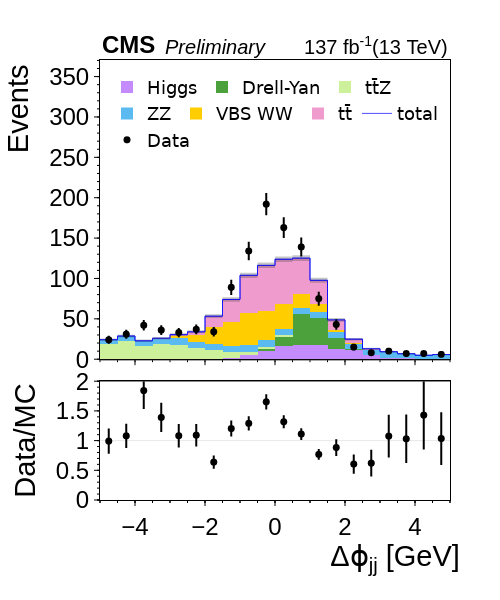
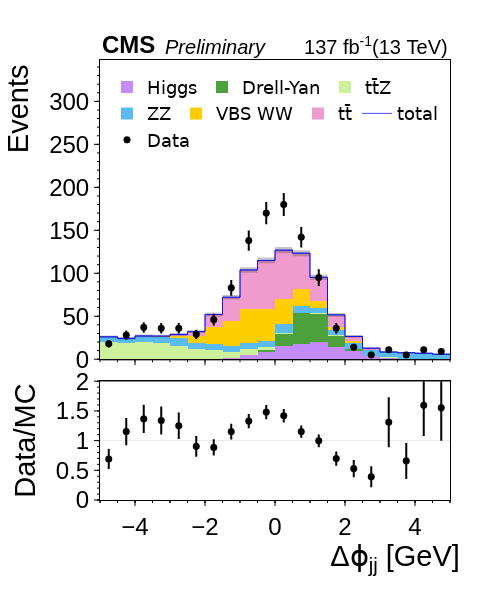
update

diff --git a/examples/example1/plot.html b/examples/example1/plot.html
@@ -9,7 +9,7 @@ window.PlotlyConfig = {MathJaxConfig: 'local'};
 <script src="https://cdn.plot.ly/plotly-2.3.0.min.js"></script>
 
     <div
-        id=ffba8164-e696-4b07-a4c6-10cbb7d7e266
+        id=f52e4669-def1-440f-9179-f8630d708ea9
         class="plotly-graph-div"
         style="height:600; width:500;">
     </div>
@@ -17,11 +17,11 @@ window.PlotlyConfig = {MathJaxConfig: 'local'};
         
         window.PLOTLYENV = window.PLOTLYENV || {}
         
-        if (document.getElementById('ffba8164-e696-4b07-a4c6-10cbb7d7e266')) {
+        if (document.getElementById('f52e4669-def1-440f-9179-f8630d708ea9')) {
     Plotly.newPlot(
-        'ffba8164-e696-4b07-a4c6-10cbb7d7e266',
-        [{"showlegend":false,"xaxis":"x","type":"scatter","name":"Data/MC","yaxis":"y"},{"showlegend":false,"xaxis":"x2","type":"scatter","name":"ratiopanel_minorticks","yaxis":"y2"},{"showlegend":false,"xaxis":"x3","type":"scatter","name":"ratiopanel_unityline","yaxis":"y3"},{"showlegend":false,"xaxis":"x4","type":"scatter","name":"mainpanel_majorticks","yaxis":"y4"},{"showlegend":false,"xaxis":"x5","type":"scatter","name":"mainpanel_minorticks","yaxis":"y5"},{"showlegend":false,"mode":"markers","xaxis":"x","name":"Data/MC","opacity":1,"error_y":{"array":[0.21223812008753618,0.2042074404155222,0.3093173328826495,0.2472365144433986,0.19827390543984852,0.188971033030122,0.11283404940021523,0.13493502349286796,0.11837993138306015,0.12872139995658505,0.10970638455027125,0.09925776040738332,0.09198068849285605,0.14046842753555544,0.16082219396140016,0.2259543525914188,0.357844370589103,0.4086168604604494,0.5772300254584061,0.44363277303632886],"width":0},"yaxis":"y","marker":{"color":"black","size":7},"y":[0.9917355371900826,1.0801393728222994,1.8421052631578947,1.3899613899613898,1.0819672131147542,1.0914454277286134,0.6378986866791745,1.2027027027027026,1.2897016361886429,1.6523235800344231,1.3166397415185782,1.110223642172524,0.7676560900716478,0.8829568788501028,0.6048387096774193,0.6201550387596898,1.0752688172043012,1.0294117647058822,1.4285714285714284,1.0344827586206895],"type":"scatter","x":[-4.75,-4.25,-3.75,-3.25,-2.75,-2.25,-1.75,-1.25,-0.75,-0.25,0.25,0.75,1.25,1.75,2.25,2.75,3.25,3.75,4.25,4.75]},{"x":[-4.75,-4.25,-3.75,-3.25,-2.75,-2.25,-1.75,-1.25,-0.75,-0.25,0.25,0.75,1.25,1.75,2.25,2.75,3.25,3.75,4.25,4.75],"xaxis":"x4","y":[0.0,0.0,0.0,0.0,0.0,0.30000000000000004,0.7000000000000001,1.5,5.0,9.9,16.0,17.0,17.900000000000002,13.200000000000001,11.0,5.0,1.6,0.9,0.0,0.0,0.0],"type":"bar","name":"Higgs","opacity":1.0,"yaxis":"y4","legendgroup":1,"marker":{"color":"rgba(196 , 139 , 253 , 1)"}},{"x":[-4.75,-4.25,-3.75,-3.25,-2.75,-2.25,-1.75,-1.25,-0.75,-0.25,0.25,0.75,1.25,1.75,2.25,2.75,3.25,3.75,4.25,4.75],"xaxis":"x4","y":[0.0,0.0,0.0,0.0,0.0,0.0,0.0,0.0,0.1,2.2,12.0,38.5,32.6,12.8,1.6,0.2,0.0,0.0,0.0,0.0,0.0],"type":"bar","name":"Drell-Yan","opacity":1.0,"yaxis":"y4","legendgroup":2,"marker":{"color":"rgba(77 , 161 , 60 , 1)"}},{"x":[-4.75,-4.25,-3.75,-3.25,-2.75,-2.25,-1.75,-1.25,-0.75,-0.25,0.25,0.75,1.25,1.75,2.25,2.75,3.25,3.75,4.25,4.75],"xaxis":"x4","y":[19.200000000000003,22.900000000000002,16.5,18.400000000000002,17.8,13.200000000000001,10.5,7.300000000000001,4.4,3.2,2.3000000000000003,0.9,0.8,0.4,0.30000000000000004,0.0,0.1,0.0,0.0,0.0,0.0],"type":"bar","name":"tt̄Z","opacity":1.0,"yaxis":"y4","legendgroup":3,"marker":{"color":"rgba(205 , 240 , 155 , 1)"}},{"x":[-4.75,-4.25,-3.75,-3.25,-2.75,-2.25,-1.75,-1.25,-0.75,-0.25,0.25,0.75,1.25,1.75,2.25,2.75,3.25,3.75,4.25,4.75],"xaxis":"x4","y":[5.0,5.7,6.2,6.6000000000000005,8.0,7.800000000000001,7.300000000000001,7.300000000000001,7.800000000000001,8.200000000000001,7.4,7.1000000000000005,7.2,7.1000000000000005,6.5,6.300000000000001,7.2,5.7,4.9,5.800000000000001,5.800000000000001],"type":"bar","name":"ZZ","opacity":1.0,"yaxis":"y4","legendgroup":4,"marker":{"color":"rgba(91 , 187 , 241 , 1)"}},{"x":[-4.75,-4.25,-3.75,-3.25,-2.75,-2.25,-1.75,-1.25,-0.75,-0.25,0.25,0.75,1.25,1.75,2.25,2.75,3.25,3.75,4.25,4.75],"xaxis":"x4","y":[0.0,0.1,0.1,0.7000000000000001,3.2,8.700000000000001,21.0,30.200000000000003,39.400000000000006,35.6,30.400000000000002,17.1,9.4,2.9000000000000004,0.8,0.30000000000000004,0.1,0.0,0.0,0.0,0.0],"type":"bar","name":"VBS WW","opacity":1.0,"yaxis":"y4","legendgroup":5,"marker":{"color":"rgba(255, 205, 0, 1)"}},{"x":[-4.75,-4.25,-3.75,-3.25,-2.75,-2.25,-1.75,-1.25,-0.75,-0.25,0.25,0.75,1.25,1.75,2.25,2.75,3.25,3.75,4.25,4.75],"xaxis":"x4","y":[0.0,0.0,0.0,0.2,1.5,3.9000000000000004,13.8,27.700000000000003,47.2,57.1,55.7,44.6,29.8,12.3,4.6000000000000005,1.1,0.30000000000000004,0.2,0.0,0.0,0.0],"type":"bar","name":"tt̄","opacity":1.0,"yaxis":"y4","legendgroup":6,"marker":{"color":"rgba(240 , 155 , 205 , 1)"}},{"showlegend":false,"mode":"lines","xaxis":"x4","fillcolor":"blue","name":"total","fill":"","opacity":0.7,"yaxis":"y4","marker":{"size":0},"line":{"color":"blue","shape":"hv","width":1},"y":[24.200000000000003,28.700000000000003,22.8,25.900000000000002,30.5,33.900000000000006,53.3,74.0,103.9,116.20000000000002,123.80000000000001,125.19999999999999,97.70000000000002,48.699999999999996,24.800000000000004,12.900000000000002,9.299999999999999,6.800000000000001,4.9,5.800000000000001,5.800000000000001],"type":"scatter","x":[-5.0,-4.5,-4.0,-3.5,-3.0,-2.5,-2.0,-1.5,-1.0,-0.5,0.0,0.5,1.0,1.5,2.0,2.5,3.0,3.5,4.0,4.5,5.0]},{"showlegend":false,"mode":"lines","line":{"shape":"hv","width":0},"xaxis":"x4","x":[-5.0,-4.5,-4.0,-3.5,-3.0,-2.5,-2.0,-1.5,-1.0,-0.5,0.0,0.5,1.0,1.5,2.0,2.5,3.0,3.5,4.0,4.5,5.0],"y":[25.755634918610408,30.394107434609744,24.309966887054152,27.50934769394311,32.2464249196573,35.7411952639522,55.608679276123034,76.72029410174709,107.12335229225725,119.60881210981188,127.31852241715185,128.73836120259082,100.82569992161757,50.90680764907139,26.374801574802365,14.035781669160057,10.264365076099295,7.624621125123533,5.6000000000000005,6.561577310586392,6.561577310586392],"type":"scatter","name":"total +1σ","yaxis":"y4","marker":{"color":"#444"}},{"showlegend":false,"mode":"lines","xaxis":"x4","fillcolor":"rgba(68, 68, 68, 0.3)","name":"total -1σ","fill":"tonexty","yaxis":"y4","marker":{"color":"#444"},"line":{"shape":"hv","width":0},"y":[22.644365081389598,27.005892565390262,21.29003311294585,24.290652306056895,28.753575080342703,32.05880473604781,50.99132072387696,71.27970589825291,100.67664770774276,112.79118789018816,120.28147758284817,121.66163879740917,94.57430007838246,46.4931923509286,23.225198425197643,11.764218330839947,8.335634923900702,5.975378874876468,4.2,5.0384226894136095,5.0384226894136095],"type":"scatter","x":[-5.0,-4.5,-4.0,-3.5,-3.0,-2.5,-2.0,-1.5,-1.0,-0.5,0.0,0.5,1.0,1.5,2.0,2.5,3.0,3.5,4.0,4.5,5.0]},{"showlegend":true,"mode":"lines","xaxis":"x4","fillcolor":"blue","name":"total","fill":"","opacity":0.7,"yaxis":"y4","legendgroup":-100,"marker":{"size":0},"line":{"color":"blue","width":1,"shape":"hv"},"y":[24.200000000000003,28.700000000000003,22.8,25.900000000000002,30.5,33.900000000000006,53.3,74.0,103.9,116.20000000000002,123.80000000000001,125.19999999999999,97.70000000000002,48.699999999999996,24.800000000000004,12.900000000000002,9.299999999999999,6.800000000000001,4.9,5.800000000000001,5.800000000000001],"type":"scatter","x":[-5.0,-4.5,-4.0,-3.5,-3.0,-2.5,-2.0,-1.5,-1.0,-0.5,0.0,0.5,1.0,1.5,2.0,2.5,3.0,3.5,4.0,4.5,5.0]},{"mode":"markers","xaxis":"x4","name":"Data","opacity":1,"error_y":{"array":[4.898979485566356,5.5677643628300215,6.48074069840786,6.0,5.744562646538029,6.082762530298219,5.830951894845301,9.433981132056603,11.575836902790225,13.856406460551018,12.767145334803704,11.789826122551595,8.660254037844387,6.557438524302,3.872983346207417,2.8284271247461903,3.1622776601683795,2.6457513110645907,2.6457513110645907,2.449489742783178],"width":0},"yaxis":"y4","legendgroup":-1,"marker":{"color":"black","size":7},"y":[24.0,31.0,42.0,36.0,33.0,37.0,34.0,89.0,134.0,192.0,163.0,139.0,75.0,43.0,15.0,8.0,10.0,7.0,7.0,6.0],"type":"scatter","x":[-4.75,-4.25,-3.75,-3.25,-2.75,-2.25,-1.75,-1.25,-0.75,-0.25,0.25,0.75,1.25,1.75,2.25,2.75,3.25,3.75,4.25,4.75]}],
-        {"xaxis":{"ticklen":5,"ticks":"outside","range":[-5.0,5.0],"domain":[0,1],"nticks":10,"color":"black","showgrid":false,"zeroline":false,"title":{"standoff":1,"text":"&nbsp;&nbsp;&nbsp;&nbsp;&nbsp;&nbsp;&nbsp;&nbsp;&nbsp;&nbsp;&nbsp;&nbsp;&nbsp;&nbsp;&nbsp;&nbsp;&nbsp;&nbsp;&nbsp;&nbsp;&nbsp;&nbsp;&nbsp;&nbsp;&nbsp;&nbsp;&nbsp;&nbsp;&nbsp;&nbsp;Δϕ<sub>jj</sub> [GeV]"},"linewidth":1,"mirror":true},"bargap":0,"template":"simple_white","height":600,"yaxis4":{"ticklen":5,"ticks":"outside","range":[0.0,370.54153162899183],"domain":[0.32,1.0],"nticks":8,"color":"black","showgrid":false,"zeroline":false,"title":{"standoff":1,"text":"&nbsp;&nbsp;&nbsp;&nbsp;&nbsp;&nbsp;&nbsp;&nbsp;&nbsp;&nbsp;&nbsp;&nbsp;&nbsp;&nbsp;&nbsp;&nbsp;&nbsp;&nbsp;&nbsp;&nbsp;&nbsp;&nbsp;&nbsp;&nbsp;&nbsp;Events"},"linewidth":1,"mirror":true,"anchor":"x4"},"yaxis":{"ticklen":5,"ticks":"outside","range":[0,2],"domain":[0.0,0.27],"nticks":8,"color":"black","showgrid":false,"zeroline":false,"title":{"standoff":1,"text":"Data/MC"},"linewidth":1,"mirror":true},"yaxis2":{"showticklabels":false,"ticklen":2,"overlaying":"y","ticks":"outside","range":[0,2],"domain":[0.0,0.27],"nticks":32,"color":"black","showgrid":false,"zeroline":false,"linewidth":1,"mirror":true,"matches":"y"},"xaxis3":{"showticklabels":false,"ticklen":2,"overlaying":"x","ticks":"outside","range":[-5.0,5.0],"domain":[0,1],"nticks":40,"color":"black","showgrid":false,"zeroline":false,"linewidth":1,"mirror":true,"matches":"x"},"legend":{"yanchor":"top","xanchor":"center","itemwidth":0,"y":0.98,"font":{"color":"black","family":"Arial","size":18},"bgcolor":"rgba(255,255,255,0.3)","tracegroupgap":0,"orientation":"h","traceorder":"grouped","x":0.5},"barmode":"stack","autosize":false,"yaxis3":{"showticklabels":false,"ticklen":2,"overlaying":"y","ticks":"outside","range":[0,2],"domain":[0.0,0.27],"nticks":4,"color":"black","showgrid":true,"zeroline":false,"linewidth":1,"mirror":true,"matches":"y"},"yaxis5":{"showticklabels":false,"ticklen":2,"overlaying":"y4","ticks":"outside","range":[0,2],"domain":[0.32,1.0],"nticks":40,"color":"black","showgrid":false,"zeroline":false,"linewidth":1,"mirror":true,"matches":"y4","anchor":"x5"},"xaxis4":{"showticklabels":false,"ticklen":5,"ticks":"outside","range":[-5.0,5.0],"domain":[0,1],"nticks":10,"color":"black","showgrid":false,"zeroline":false,"linewidth":1,"mirror":true,"matches":"x","anchor":"y4"},"font":{"family":"Arial","size":24},"annotations":[{"yanchor":"bottom","xanchor":"left","y":1.0,"font":{"color":"black","size":24},"yref":"paper","showarrow":false,"text":"<b>CMS</b>","xref":"paper","x":0.0},{"yanchor":"bottom","xanchor":"left","y":1.0,"font":{"color":"black","size":20},"yref":"paper","showarrow":false,"text":"<i>Preliminary</i>","xref":"paper","x":0.18},{"yanchor":"bottom","xanchor":"right","y":1.0,"font":{"color":"black","size":20},"yref":"paper","showarrow":false,"text":"137 fb<sup>-1</sup>(13 TeV)","xref":"paper","x":1.0}],"xaxis2":{"showticklabels":false,"ticklen":2,"overlaying":"x","ticks":"outside","range":[-5.0,5.0],"domain":[0,1],"nticks":40,"color":"black","showgrid":false,"zeroline":false,"linewidth":1,"mirror":true,"matches":"x"},"margin":{"l":100,"b":100,"r":50,"t":60},"xaxis5":{"showticklabels":false,"ticklen":2,"overlaying":"x4","ticks":"outside","range":[-5.0,5.0],"domain":[0,1],"nticks":50,"color":"black","showgrid":false,"zeroline":false,"linewidth":1,"mirror":true,"matches":"x","anchor":"y4"},"width":500},
+        'f52e4669-def1-440f-9179-f8630d708ea9',
+        [{"showlegend":false,"xaxis":"x","type":"scatter","name":"Data/MC","yaxis":"y"},{"showlegend":false,"xaxis":"x2","type":"scatter","name":"ratiopanel_minorticks","yaxis":"y2"},{"showlegend":false,"xaxis":"x3","type":"scatter","name":"ratiopanel_unityline","yaxis":"y3"},{"showlegend":false,"xaxis":"x4","type":"scatter","name":"mainpanel_majorticks","yaxis":"y4"},{"showlegend":false,"xaxis":"x5","type":"scatter","name":"mainpanel_minorticks","yaxis":"y5"},{"showlegend":false,"mode":"markers","xaxis":"x","name":"Data/MC","opacity":1,"error_y":{"array":[0.16806512126130946,0.22996103292232636,0.23928875162117816,0.23750499625229313,0.22097086912079608,0.175176349774038,0.13607618217559145,0.13343328359021292,0.12033846107109823,0.12158130915207034,0.11297387157887827,0.10197193244661332,0.10725143039501475,0.12026693325006536,0.14487628751784984,0.1780720950079147,0.41989356223514784,0.30374359107784166,0.5175683371144361,0.5559255900894898],"width":0},"yaxis":"y","marker":{"color":"black","size":7},"y":[0.689655172413793,1.1522633744855966,1.3653136531365313,1.338289962825279,1.2499999999999998,0.9034267912772586,0.8846153846153846,1.1511789181692094,1.3282001924927815,1.4795474325500437,1.4184397163120566,1.1507293354943273,0.9968520461699896,0.6976744186046512,0.5283018867924528,0.390625,1.3095238095238095,0.6578947368421052,1.5942028985507246,1.5517241379310343],"type":"scatter","x":[-4.75,-4.25,-3.75,-3.25,-2.75,-2.25,-1.75,-1.25,-0.75,-0.25,0.25,0.75,1.25,1.75,2.25,2.75,3.25,3.75,4.25,4.75]},{"x":[-4.75,-4.25,-3.75,-3.25,-2.75,-2.25,-1.75,-1.25,-0.75,-0.25,0.25,0.75,1.25,1.75,2.25,2.75,3.25,3.75,4.25,4.75],"xaxis":"x4","y":[0.0,0.0,0.0,0.0,0.0,0.1,0.5,1.6,5.4,8.8,15.100000000000001,18.2,19.700000000000003,14.5,9.4,4.1000000000000005,1.8,0.6000000000000001,0.1,0.0,0.0],"type":"bar","name":"Higgs","opacity":1.0,"yaxis":"y4","legendgroup":1,"marker":{"color":"rgba(196 , 139 , 253 , 1)"}},{"x":[-4.75,-4.25,-3.75,-3.25,-2.75,-2.25,-1.75,-1.25,-0.75,-0.25,0.25,0.75,1.25,1.75,2.25,2.75,3.25,3.75,4.25,4.75],"xaxis":"x4","y":[0.0,0.0,0.0,0.0,0.0,0.0,0.0,0.0,0.0,2.1,14.200000000000001,35.1,33.0,13.0,2.4000000000000004,0.2,0.0,0.0,0.0,0.0,0.0],"type":"bar","name":"Drell-Yan","opacity":1.0,"yaxis":"y4","legendgroup":2,"marker":{"color":"rgba(77 , 161 , 60 , 1)"}},{"x":[-4.75,-4.25,-3.75,-3.25,-2.75,-2.25,-1.75,-1.25,-0.75,-0.25,0.25,0.75,1.25,1.75,2.25,2.75,3.25,3.75,4.25,4.75],"xaxis":"x4","y":[20.1,19.3,20.0,18.7,15.9,11.700000000000001,9.9,6.9,6.2,3.1,1.4000000000000001,0.9,0.8,0.30000000000000004,0.1,0.0,0.2,0.0,0.0,0.0,0.0],"type":"bar","name":"tt̄Z","opacity":1.0,"yaxis":"y4","legendgroup":3,"marker":{"color":"rgba(205 , 240 , 155 , 1)"}},{"x":[-4.75,-4.25,-3.75,-3.25,-2.75,-2.25,-1.75,-1.25,-0.75,-0.25,0.25,0.75,1.25,1.75,2.25,2.75,3.25,3.75,4.25,4.75],"xaxis":"x4","y":[6.0,4.9,6.9,7.6000000000000005,8.200000000000001,6.6000000000000005,7.6000000000000005,6.6000000000000005,7.4,6.800000000000001,9.700000000000001,8.0,5.800000000000001,6.5,7.4,6.4,6.2,6.800000000000001,6.800000000000001,5.800000000000001,5.800000000000001],"type":"bar","name":"ZZ","opacity":1.0,"yaxis":"y4","legendgroup":4,"marker":{"color":"rgba(91 , 187 , 241 , 1)"}},{"x":[-4.75,-4.25,-3.75,-3.25,-2.75,-2.25,-1.75,-1.25,-0.75,-0.25,0.25,0.75,1.25,1.75,2.25,2.75,3.25,3.75,4.25,4.75],"xaxis":"x4","y":[0.0,0.0,0.1,0.4,3.1,8.6,19.1,29.900000000000002,38.900000000000006,37.1,29.5,19.900000000000002,8.1,3.7,1.4000000000000001,0.2,0.0,0.0,0.0,0.0,0.0],"type":"bar","name":"VBS WW","opacity":1.0,"yaxis":"y4","legendgroup":5,"marker":{"color":"rgba(255, 205, 0, 1)"}},{"x":[-4.75,-4.25,-3.75,-3.25,-2.75,-2.25,-1.75,-1.25,-0.75,-0.25,0.25,0.75,1.25,1.75,2.25,2.75,3.25,3.75,4.25,4.75],"xaxis":"x4","y":[0.0,0.1,0.1,0.2,1.6,5.1000000000000005,14.9,27.1,46.0,57.0,57.0,41.300000000000004,27.900000000000002,13.600000000000001,5.800000000000001,1.9000000000000001,0.2,0.2,0.0,0.0,0.0],"type":"bar","name":"tt̄","opacity":1.0,"yaxis":"y4","legendgroup":6,"marker":{"color":"rgba(240 , 155 , 205 , 1)"}},{"showlegend":false,"mode":"lines","xaxis":"x4","fillcolor":"blue","name":"total","fill":"","opacity":0.7,"yaxis":"y4","marker":{"size":0},"line":{"color":"blue","shape":"hv","width":1},"y":[26.1,24.300000000000004,27.1,26.9,28.800000000000004,32.1,52.0,72.10000000000001,103.9,114.89999999999998,126.9,123.4,95.3,51.6,26.5,12.8,8.4,7.6000000000000005,6.9,5.800000000000001,5.800000000000001],"type":"scatter","x":[-5.0,-4.5,-4.0,-3.5,-3.0,-2.5,-2.0,-1.5,-1.0,-0.5,0.0,0.5,1.0,1.5,2.0,2.5,3.0,3.5,4.0,4.5,5.0]},{"showlegend":false,"mode":"lines","line":{"shape":"hv","width":0},"xaxis":"x4","x":[-5.0,-4.5,-4.0,-3.5,-3.0,-2.5,-2.0,-1.5,-1.0,-0.5,0.0,0.5,1.0,1.5,2.0,2.5,3.0,3.5,4.0,4.5,5.0],"y":[27.715549442140354,25.858845726811992,28.746207763315436,28.540121946685673,30.49705627484772,33.891647286716896,54.280350850198275,74.78514431641952,107.12335229225725,118.28969025133564,130.46230262611138,126.91283361405007,98.38706980808662,53.87156333832011,28.12788205960997,13.931370849898476,9.316515138991168,8.471779788708135,7.730662386291808,6.561577310586392,6.561577310586392],"type":"scatter","name":"total +1σ","yaxis":"y4","marker":{"color":"#444"}},{"showlegend":false,"mode":"lines","xaxis":"x4","fillcolor":"rgba(68, 68, 68, 0.3)","name":"total -1σ","fill":"tonexty","yaxis":"y4","marker":{"color":"#444"},"line":{"shape":"hv","width":0},"y":[24.48445055785965,22.741154273188016,25.453792236684567,25.259878053314324,27.10294372515229,30.30835271328311,49.719649149801725,69.4148556835805,100.67664770774276,111.51030974866431,123.33769737388863,119.88716638594994,92.21293019191337,49.328436661679895,24.87211794039003,11.668629150101525,7.483484861008832,6.728220211291866,6.069337613708193,5.0384226894136095,5.0384226894136095],"type":"scatter","x":[-5.0,-4.5,-4.0,-3.5,-3.0,-2.5,-2.0,-1.5,-1.0,-0.5,0.0,0.5,1.0,1.5,2.0,2.5,3.0,3.5,4.0,4.5,5.0]},{"showlegend":true,"mode":"lines","xaxis":"x4","fillcolor":"blue","name":"total","fill":"","opacity":0.7,"yaxis":"y4","legendgroup":-100,"marker":{"size":0},"line":{"color":"blue","width":1,"shape":"hv"},"y":[26.1,24.300000000000004,27.1,26.9,28.800000000000004,32.1,52.0,72.10000000000001,103.9,114.89999999999998,126.9,123.4,95.3,51.6,26.5,12.8,8.4,7.6000000000000005,6.9,5.800000000000001,5.800000000000001],"type":"scatter","x":[-5.0,-4.5,-4.0,-3.5,-3.0,-2.5,-2.0,-1.5,-1.0,-0.5,0.0,0.5,1.0,1.5,2.0,2.5,3.0,3.5,4.0,4.5,5.0]},{"mode":"markers","xaxis":"x4","name":"Data","opacity":1,"error_y":{"array":[4.242640687119285,5.291502622129181,6.082762530298219,6.0,6.0,5.385164807134504,6.782329983125268,9.1104335791443,11.74734012447073,13.038404810405298,13.416407864998739,11.916375287812984,9.746794344808963,6.0,3.7416573867739413,2.23606797749979,3.3166247903554,2.23606797749979,3.3166247903554,3.0],"width":0},"yaxis":"y4","legendgroup":-1,"marker":{"color":"black","size":7},"y":[18.0,28.0,37.0,36.0,36.0,29.0,46.0,83.0,138.0,170.0,180.0,142.0,95.0,36.0,14.0,5.0,11.0,5.0,11.0,9.0],"type":"scatter","x":[-4.75,-4.25,-3.75,-3.25,-2.75,-2.25,-1.75,-1.25,-0.75,-0.25,0.25,0.75,1.25,1.75,2.25,2.75,3.25,3.75,4.25,4.75]}],
+        {"xaxis":{"ticklen":5,"ticks":"outside","range":[-5.0,5.0],"domain":[0,1],"nticks":10,"color":"black","showgrid":false,"zeroline":false,"title":{"standoff":1,"text":"&nbsp;&nbsp;&nbsp;&nbsp;&nbsp;&nbsp;&nbsp;&nbsp;&nbsp;&nbsp;&nbsp;&nbsp;&nbsp;&nbsp;&nbsp;&nbsp;&nbsp;&nbsp;&nbsp;&nbsp;&nbsp;&nbsp;&nbsp;&nbsp;&nbsp;&nbsp;&nbsp;&nbsp;&nbsp;&nbsp;Δϕ<sub>jj</sub> [GeV]"},"linewidth":1,"mirror":true},"bargap":0,"template":"simple_white","height":600,"yaxis4":{"ticklen":5,"ticks":"outside","range":[0.0,348.14953415699773],"domain":[0.32,1.0],"nticks":8,"color":"black","showgrid":false,"zeroline":false,"title":{"standoff":1,"text":"&nbsp;&nbsp;&nbsp;&nbsp;&nbsp;&nbsp;&nbsp;&nbsp;&nbsp;&nbsp;&nbsp;&nbsp;&nbsp;&nbsp;&nbsp;&nbsp;&nbsp;&nbsp;&nbsp;&nbsp;&nbsp;&nbsp;&nbsp;&nbsp;&nbsp;Events"},"linewidth":1,"mirror":true,"anchor":"x4"},"yaxis":{"ticklen":5,"ticks":"outside","range":[0,2],"domain":[0.0,0.27],"nticks":8,"color":"black","showgrid":false,"zeroline":false,"title":{"standoff":1,"text":"Data/MC"},"linewidth":1,"mirror":true},"yaxis2":{"showticklabels":false,"ticklen":2,"overlaying":"y","ticks":"outside","range":[0,2],"domain":[0.0,0.27],"nticks":32,"color":"black","showgrid":false,"zeroline":false,"linewidth":1,"mirror":true,"matches":"y"},"xaxis3":{"showticklabels":false,"ticklen":2,"overlaying":"x","ticks":"outside","range":[-5.0,5.0],"domain":[0,1],"nticks":40,"color":"black","showgrid":false,"zeroline":false,"linewidth":1,"mirror":true,"matches":"x"},"legend":{"yanchor":"top","xanchor":"center","itemwidth":0,"y":0.98,"font":{"color":"black","family":"Arial","size":18},"bgcolor":"rgba(255,255,255,0.3)","tracegroupgap":0,"orientation":"h","traceorder":"grouped","x":0.5},"barmode":"stack","autosize":false,"yaxis3":{"showticklabels":false,"ticklen":2,"overlaying":"y","ticks":"outside","range":[0,2],"domain":[0.0,0.27],"nticks":4,"color":"black","showgrid":true,"zeroline":false,"linewidth":1,"mirror":true,"matches":"y"},"yaxis5":{"showticklabels":false,"ticklen":2,"overlaying":"y4","ticks":"outside","range":[0,2],"domain":[0.32,1.0],"nticks":40,"color":"black","showgrid":false,"zeroline":false,"linewidth":1,"mirror":true,"matches":"y4","anchor":"x5"},"xaxis4":{"showticklabels":false,"ticklen":5,"ticks":"outside","range":[-5.0,5.0],"domain":[0,1],"nticks":10,"color":"black","showgrid":false,"zeroline":false,"linewidth":1,"mirror":true,"matches":"x","anchor":"y4"},"font":{"family":"Arial","size":24},"annotations":[{"yanchor":"bottom","xanchor":"left","y":1.0,"font":{"color":"black","size":24},"yref":"paper","showarrow":false,"text":"<b>CMS</b>","xref":"paper","x":0.0},{"yanchor":"bottom","xanchor":"left","y":1.0,"font":{"color":"black","size":20},"yref":"paper","showarrow":false,"text":"<i>Preliminary</i>","xref":"paper","x":0.18},{"yanchor":"bottom","xanchor":"right","y":1.0,"font":{"color":"black","size":20},"yref":"paper","showarrow":false,"text":"137 fb<sup>-1</sup>(13 TeV)","xref":"paper","x":1.0}],"xaxis2":{"showticklabels":false,"ticklen":2,"overlaying":"x","ticks":"outside","range":[-5.0,5.0],"domain":[0,1],"nticks":40,"color":"black","showgrid":false,"zeroline":false,"linewidth":1,"mirror":true,"matches":"x"},"margin":{"l":100,"b":100,"r":50,"t":60},"xaxis5":{"showticklabels":false,"ticklen":2,"overlaying":"x4","ticks":"outside","range":[-5.0,5.0],"domain":[0,1],"nticks":50,"color":"black","showgrid":false,"zeroline":false,"linewidth":1,"mirror":true,"matches":"x","anchor":"y4"},"width":500},
         {"editable":false,"responsive":true,"staticPlot":false,"scrollZoom":true},
     )
 }

diff --git a/docs/src/index.md b/docs/src/index.md
@@ -1,1 +1,2 @@
-../../README.md
+# PlotlyJSWrapper.jl
+

diff --git a/docs/src/api.md b/docs/src/api.md
@@ -1,0 +1,1 @@
+Modules = [PlotlyJSWrapper]
